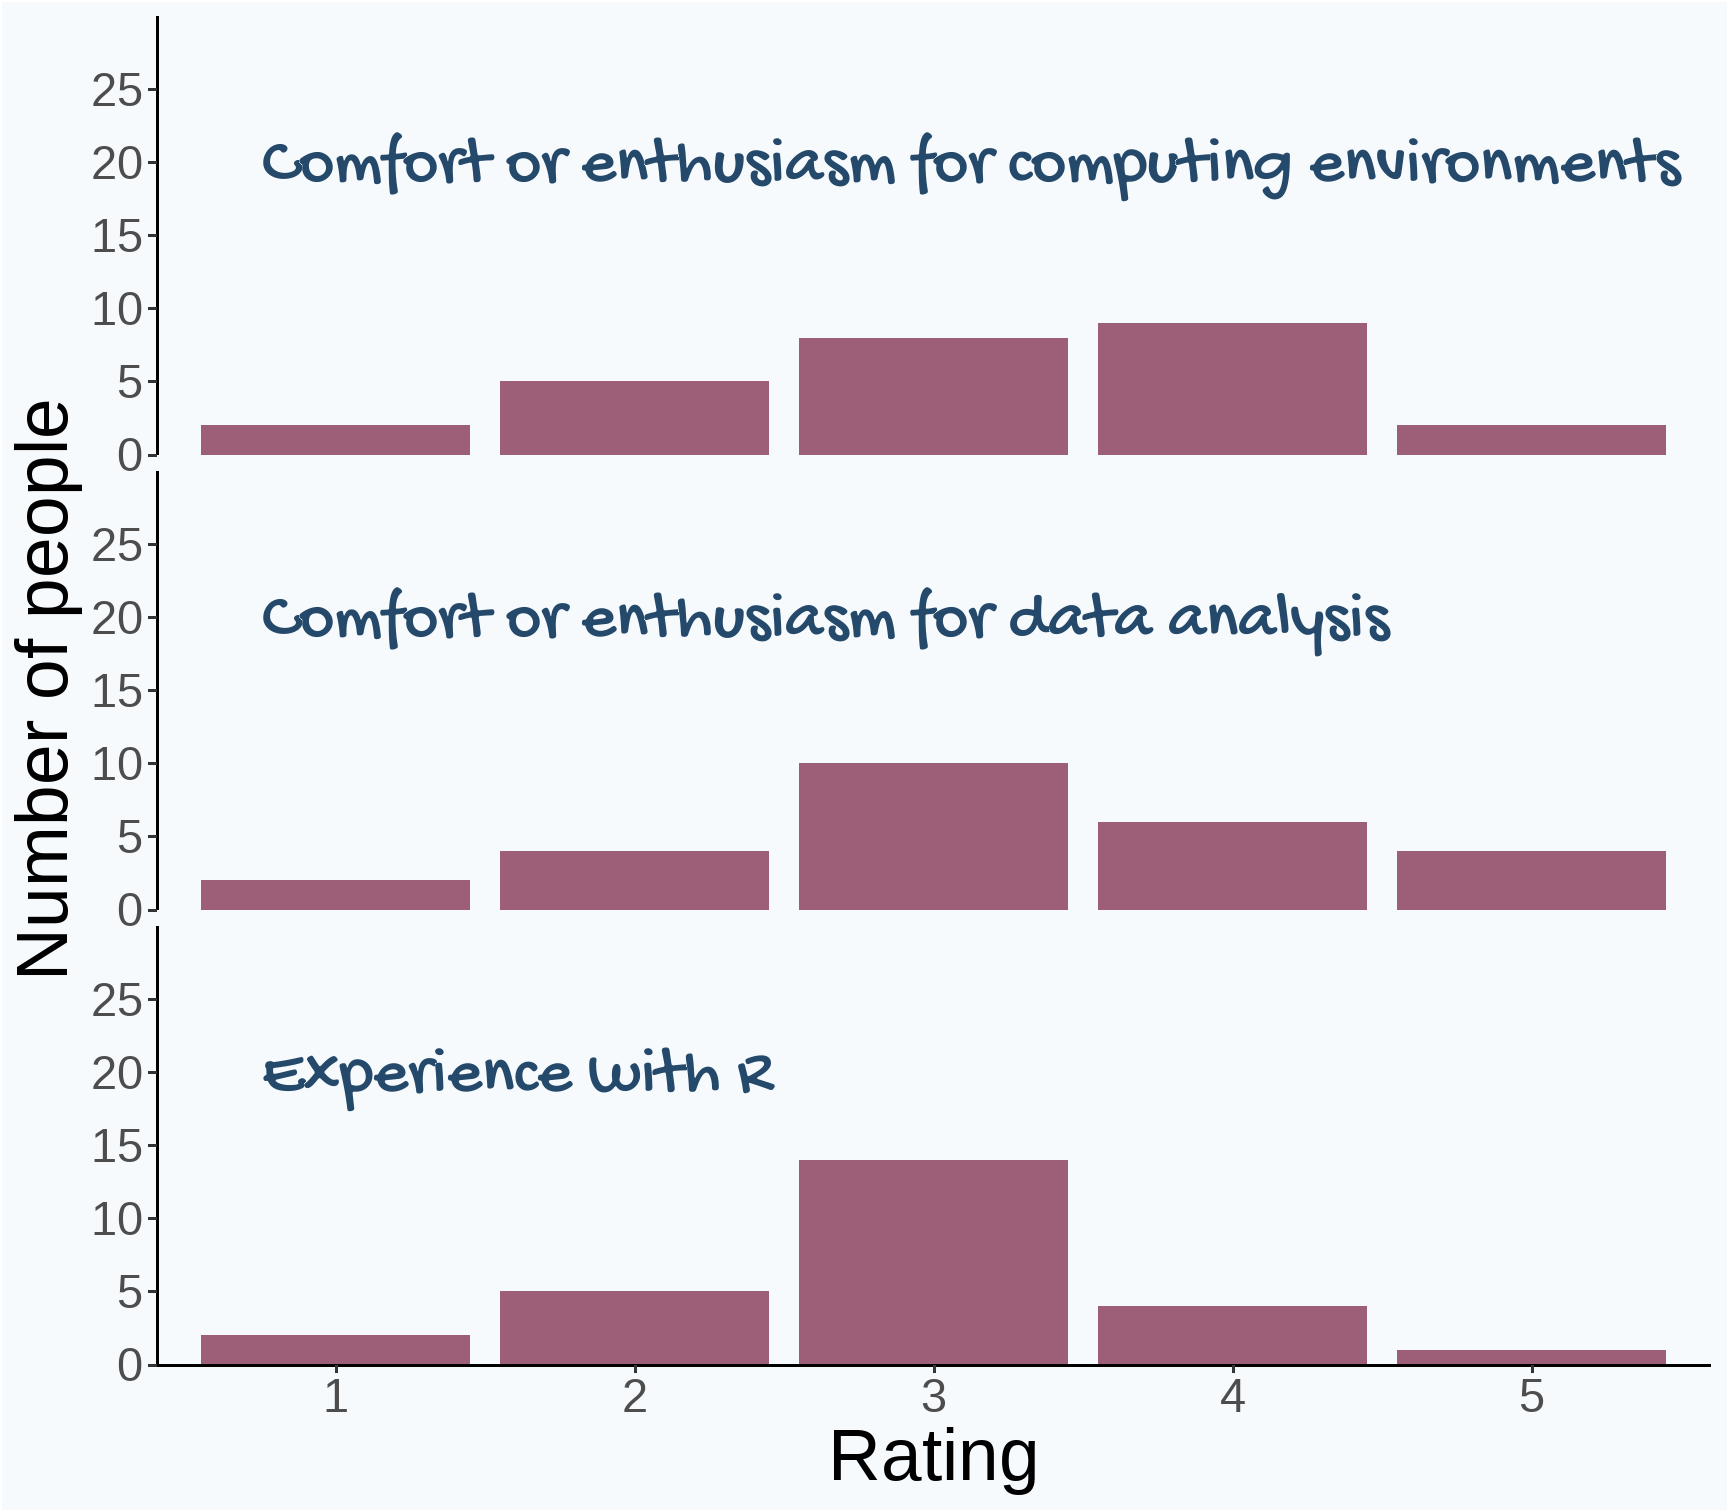
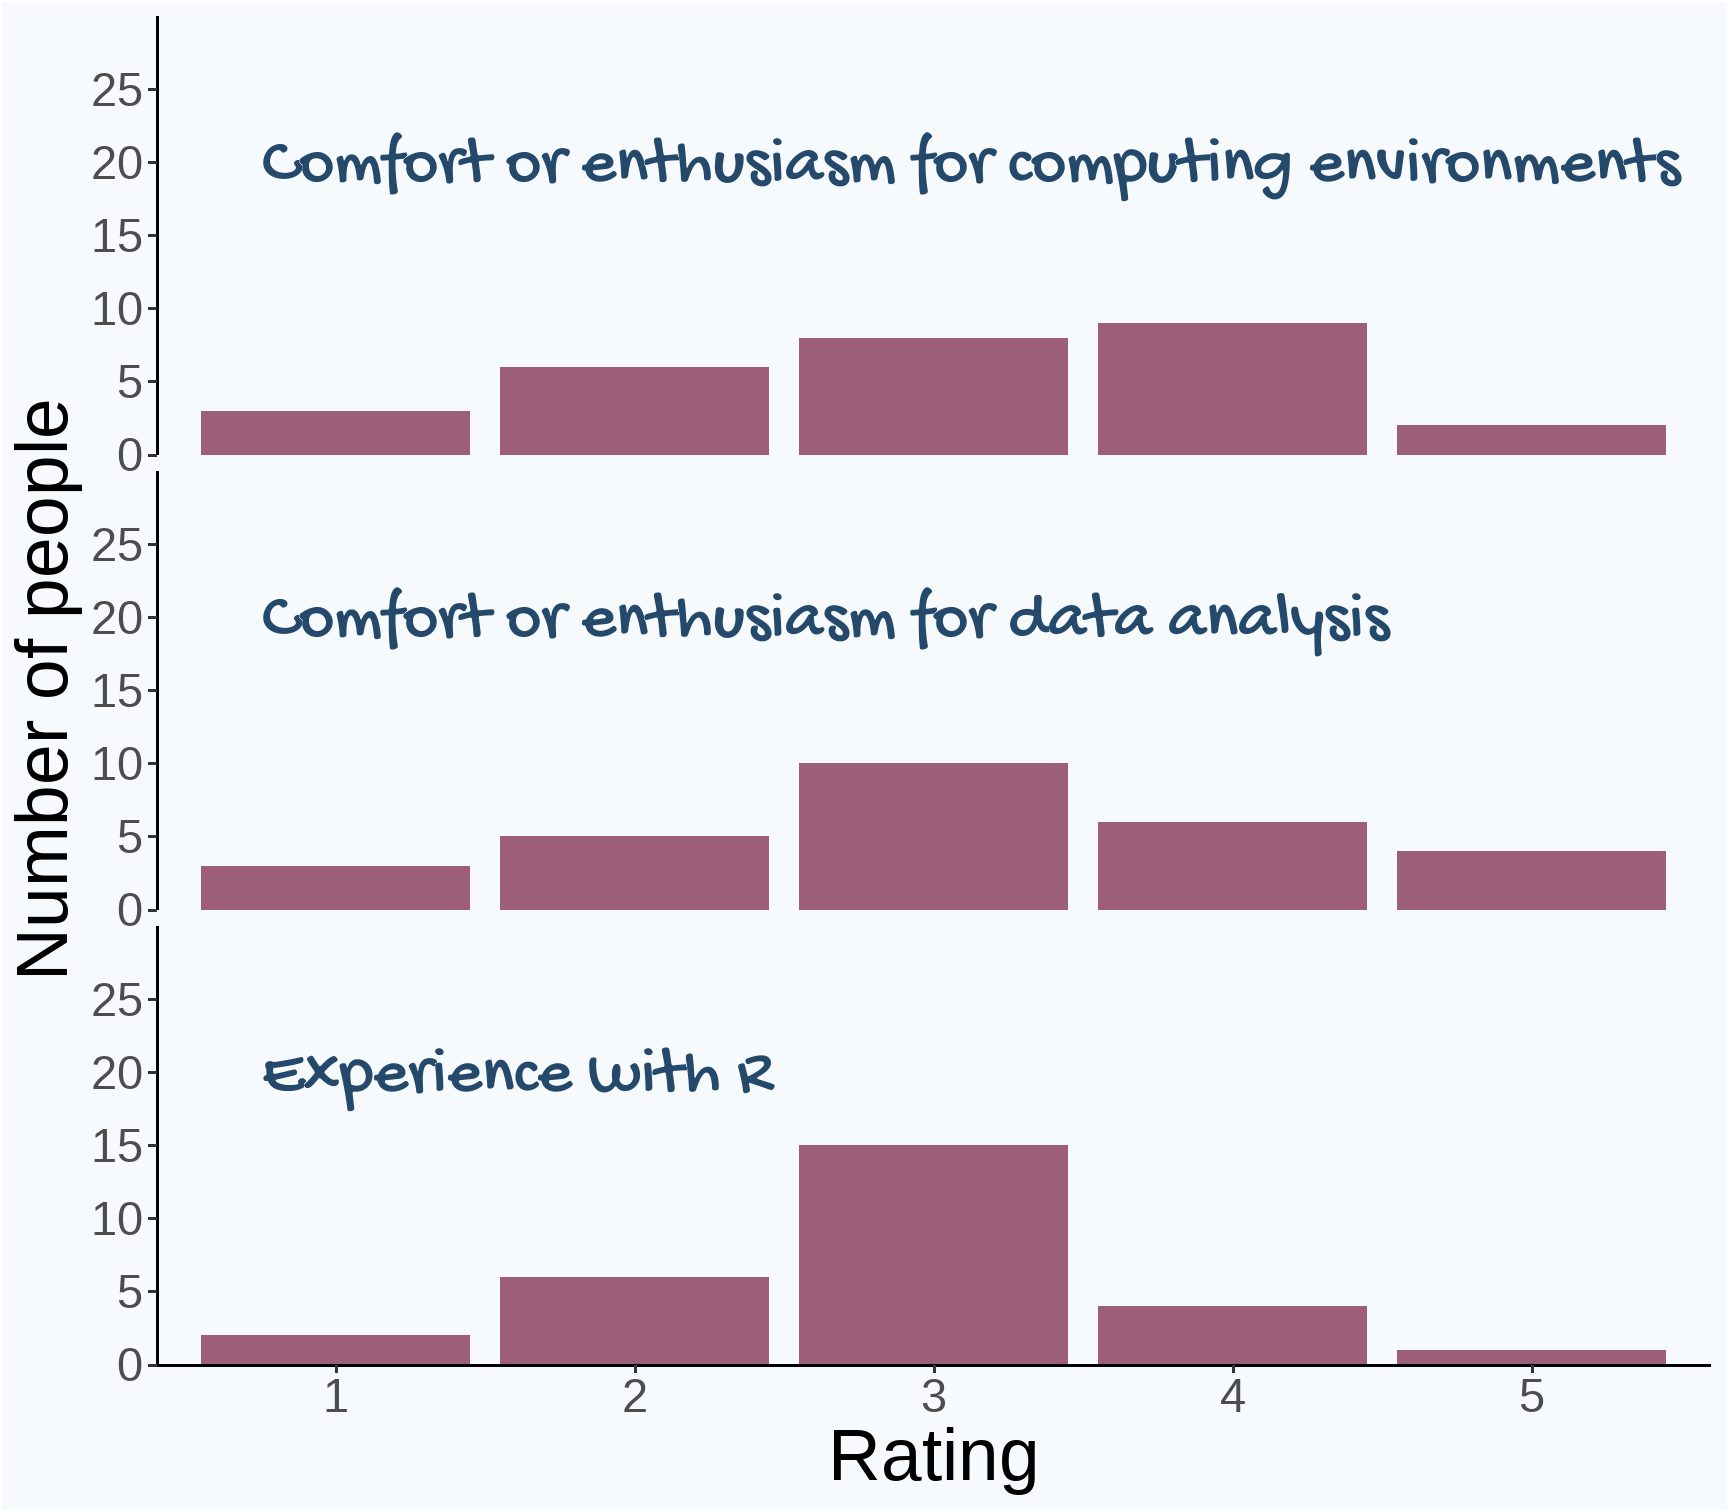
rebuild of 00_intro_to_module slides for survey updates

diff --git a/slides/00_intro_to_module.html b/slides/00_intro_to_module.html
@@ -87,8 +87,11 @@ For Data Science, the first objective means:
 
 **Produce a reproducible data analysis and report. **
 
-The analysis can emphasise data import, processing, statistical analysis, visualisation or any combination of these.
+The analysis can emphasise data processing, statistical analysis, visualisation or any combination of these.
 
+--
+
+You **must** use RStudio projects and rmarkdown (any, incl. Shiny), organise your analyses for reproducibility and follow good practice.
 
 ---
 class: inverse
@@ -99,7 +102,7 @@ class: inverse
 
 
 
-The distribution of ratings you (n = 26) gave in the survey were:
+The distribution of ratings you (n = 28) gave in the survey were:
 
 &lt;img src="00_intro_to_module_files/figure-html/unnamed-chunk-2-1.png" width="576" /&gt;
 
@@ -148,7 +151,7 @@ One definition
 ---
 # Reproducibility is key!
 
-&lt;img src="../pics/reproducible-matrix.jpg" width="500px" /&gt;
+&lt;img src="../pics/reproducible-matrix.jpg" width="700px" /&gt;
 
 .font60[
 How the Turing Way (Arnold Bowler, et al., 2019) defines reproducible research
@@ -168,7 +171,7 @@ How the Turing Way (Arnold Bowler, et al., 2019) defines reproducible research
 ---
 # Open Science
 
-![](../pics/Foster.png)&lt;!-- --&gt;
+&lt;img src="../pics/Foster.png" width="700px" /&gt;
 .font60[
 By Petr Knoth and Nancy Pontika - https://en.wikipedia.org/wiki/Open_science#/media/File:Os_taxonomy.png, CC BY 3.0, https://commons.wikimedia.org/w/index.php?curid=61125075
 ]
@@ -198,7 +201,7 @@ Analysing and reporting them
 ---
 
 # Rationale for scripting analysis
-We ensure reproducibility of laboratory and field work by planning and recording in lab books and using standard protocols. 
+We ensure replicability of laboratory and field work by planning and recording in lab books and using standard protocols. 
 
 
 &lt;img src="../pics/rationale2.png" width="600px" /&gt;
@@ -212,7 +215,7 @@ We ensure reproducibility of laboratory and field work by planning and recording
 &lt;img src="../pics/rationale3.png" width="600px" /&gt;
 
 
-Workflows for computational projects and the data analysis and reporting of other work can, and should, be 100% reproducible! Scripting is the way to achieve this.
+Workflows for computational projects, and the data analysis and reporting of other work can, and should, be 100% reproducible! Scripting is the way to achieve this.
 
 ---
 
@@ -226,9 +229,6 @@ That reproducibility applies to all aspects of the data workflow.
 
 From importing or collecting the data, processing it for analysis, building statistical models and communicating the methods and results.
 
---
-
-These are usually iterative and that process of iteration (the development of the analysis) should also be captured.
 
 ---
 class: inverse
@@ -246,7 +246,7 @@ Open source and free
   
 --
 
-R has reputation for catering to users who do not see themselves as programmers, and  allowing them to slide gradually into programming.
+R has reputation for catering to users who do not see themselves as programmers, and allowing them to slide gradually into programming.
 
 
 &lt;img src="../pics/biologist1.png" width="600px" /&gt;
@@ -332,8 +332,8 @@ We cover:
 -  Week 8: Topic 5 - An introduction to Machine Learning: Overview and Unsupervised methods
 -  Week 9: Topic 6 - An introduction to Machine Learning: Supervised Methods
 -  Week 10: Project work
--  Spring Weeks 1 - 5: Project work. Drop-ins TBC
-
+-  Spring Weeks 1 - 2: Project work. Drop-ins
+-  Spring Week 3: Assessment deadline Monday 1200 noon
 ]
 
 ---
@@ -348,7 +348,7 @@ Thus there is choice and flexibility in the assessment. Two highly scoring submi
 ---
 # The options
 
-1. Reproducible analysis related to your project/module work
+1. Reproducible analysis *related* to your project/module work
    * Analysis of existing or simulated data including images
    * Conversion of existing lab tools (eg excel files) to reproducible pipelines
    * Analysis of literature (text analysis)
